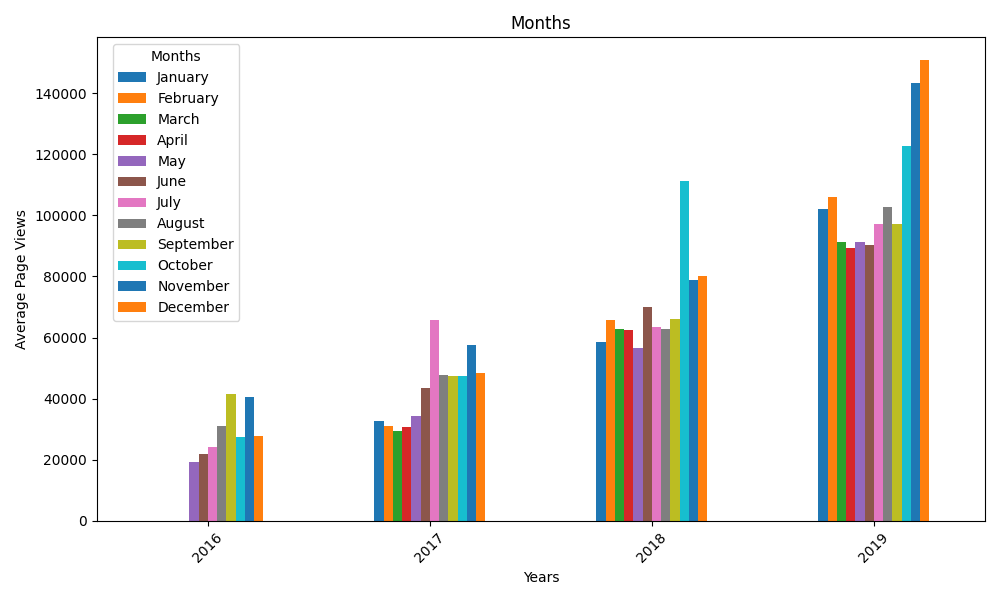
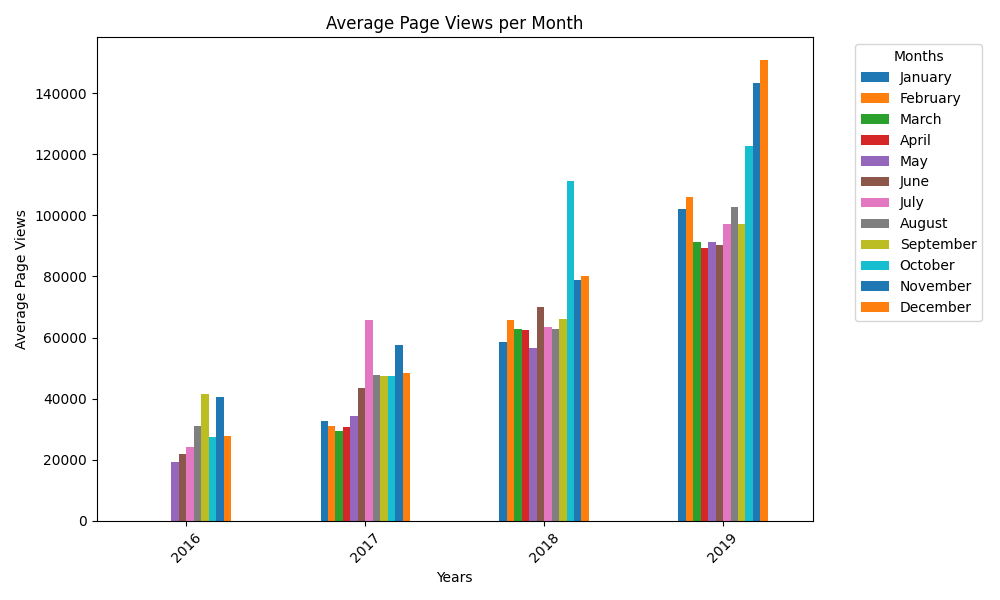
Updated Seaborns Version, completed Project, box plot done

diff --git a/time_series_visualizer.py b/time_series_visualizer.py
@@ -40,7 +40,7 @@ def draw_bar_plot():
     # Copy and modify data for monthly bar plot
     meses = ['January', 'February', 'March', 'April', 'May', 'June', 'July', 'August', 'September', 'October', 'November', 'December']
     meses = pd.api.types.CategoricalDtype(categories=meses)
-    df_bar = df
+    df_bar = df.copy()
     df_bar['year'] = df_bar.index.year  # Add a 'year' column based on index
     df_bar['month'] = df_bar.index.month_name()  # Add a 'month' column with month names
     df_bar["month"] = df_bar["month"].astype(meses)
@@ -51,14 +51,12 @@ def draw_bar_plot():
     # Unstack to create a DataFrame suitable for bar plot
     monthly_averages_unstacked = monthly_averages.unstack()
 
-    month_order = ['January', 'February', 'March', 'April', 'May', 'June', 'July', 'August', 'September', 'October', 'November', 'December']
-
     fig, ax = plt.subplots(figsize=(10, 6))  # Create a figure and axes
-    monthly_averages_unstacked.plot(kind='bar', ax=ax, xlim=(month_order[0], month_order[11]))  # Set xlim with indices
-    ax.set_title('Months')
+    monthly_averages_unstacked.plot(kind='bar', ax=ax)
+    ax.set_title('Average Page Views per Month')
     ax.set_xlabel('Years')
     ax.set_ylabel('Average Page Views')
-    ax.legend(title='Months', loc='upper left', bbox_to_anchor=(0.01, 1))  # Adjust bbox_to_anchor
+    ax.legend(title='Months', loc='upper left', bbox_to_anchor=(1.05, 1))
 
     # Rotate x-axis labels for better readability
     plt.xticks(rotation=45)
@@ -70,8 +68,41 @@ def draw_bar_plot():
     return fig
 
 def draw_box_plot():
+    # Prepare the data for the box plots
+    df_box = df.copy()
     
+    # Extract the year and month
+    df_box['year'] = df_box.index.year
+    df_box['month'] = df_box.index.month_name().str[:3]
+    
+    # Convert 'year' to string type
+    df_box['year'] = df_box['year'].astype(str)
+    
+    # Convert 'value' to numeric if it's not already
+    df_box['value'] = pd.to_numeric(df_box['value'], errors='coerce')
+    
+    # Drop rows with NaN values in 'value' column
+    df_box = df_box.dropna(subset=['value'])
 
+    # Set up the figure and axes
+    fig, (ax1, ax2) = plt.subplots(1, 2, figsize=(20, 8))
+    
+    # Year-wise Box Plot
+    sns.boxplot(x='year', y='value', data=df_box, ax=ax1)
+    ax1.set_title('Year-wise Box Plot (Trend)')
+    ax1.set_xlabel('Year')
+    ax1.set_ylabel('Page Views')
+    
+    # Month-wise Box Plot
+    sns.boxplot(x='month', y='value', data=df_box, 
+                order=['Jan', 'Feb', 'Mar', 'Apr', 'May', 'Jun', 'Jul', 'Aug', 'Sep', 'Oct', 'Nov', 'Dec'], ax=ax2)
+    ax2.set_title('Month-wise Box Plot (Seasonality)')
+    ax2.set_xlabel('Month')
+    ax2.set_ylabel('Page Views')
+    
+    plt.tight_layout()
+    plt.show()
+    
     # Save image and return fig (don't change this part)
     fig.savefig('box_plot.png')
     return fig
